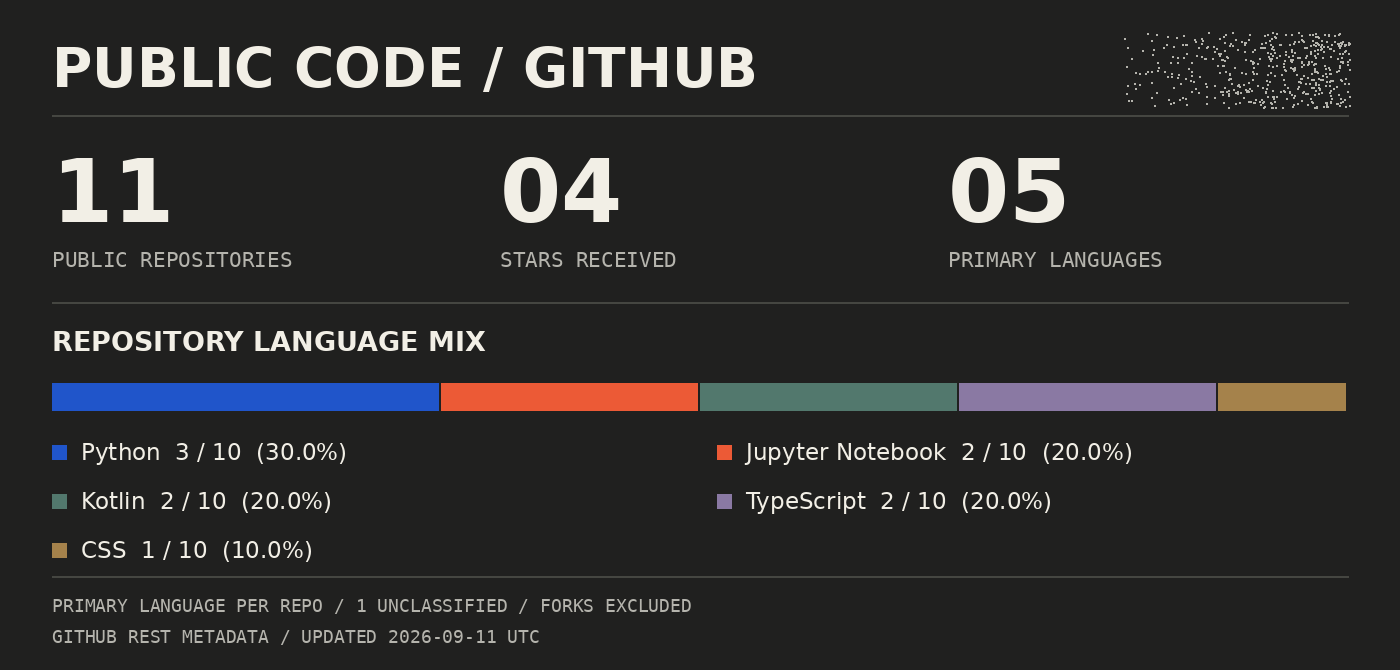
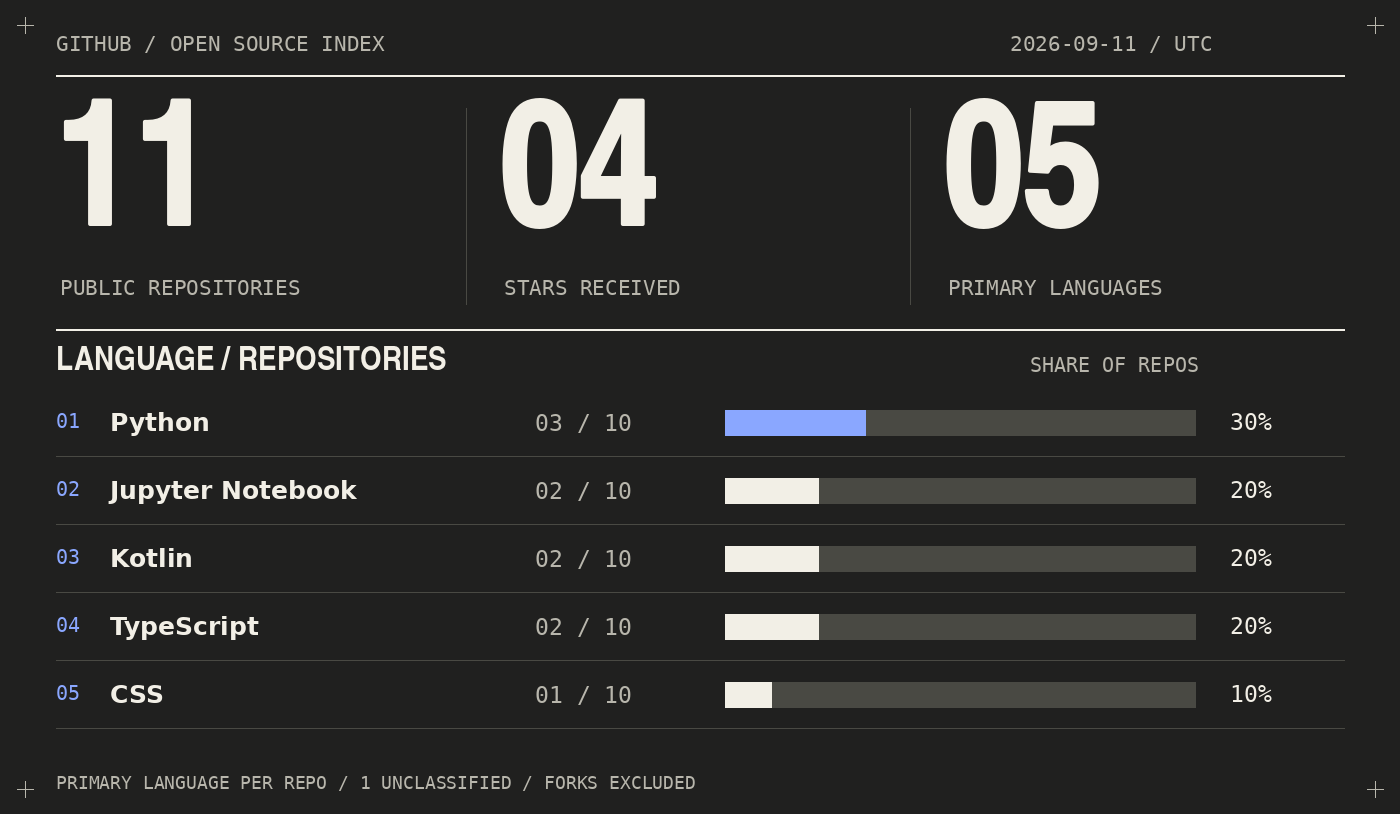
Polish GitHub stats to match the dither editorial identity
Add generated Code in Public artwork, condensed display numerals, restrained language bars, and aligned annotations. Preserve automatic refresh and install the display font in CI.

diff --git a/docs/visual-design.md b/docs/visual-design.md
@@ -49,3 +49,7 @@ Eight technology tiles use the official Devicon glyphs, rendered as PNGs on the 
 Two deterministic light/dark stats PNGs report public owned repository totals, stars received, and primary-language repository counts. They are drawn from the GitHub REST snapshot in `github-stats.json`, never image-generated. The weekly GitHub Actions workflow refreshes the snapshot, both cards, and accessible README table. Language proportions exclude unclassified repositories from the denominator and do not claim proficiency or coding time. Accountwide totals include all public owned repositories, whether or not featured on the profile.
 
 The complete inventory is now 42 PNGs: the original 24 editorial assets, eight link banners, eight technology tiles, and two stats cards. The approved name masthead remains unchanged. No SVG assets or animations are shipped.
+
+### Stats editorial polish
+
+The GitHub section now opens with an individually generated `github-cover.png` illustration: monumental CODE IN PUBLIC lettering, interlocking dither frames, cobalt orbit, and vermilion marker. Generation used the approved name masthead as its reference. The numerical panel uses Nimbus Sans Narrow Bold display numerals, monospaced annotations, registration marks, and a restrained cobalt/charcoal bar chart. Each bar reports the same denominator and a zero-to-100% track. The workflow installs `fonts-urw-base35` to preserve this typography on refresh. Both numerical themes remain deterministic and accessible through the accompanying table. Total PNG inventory: 43.

diff --git a/README.md b/README.md
@@ -380,6 +380,8 @@ Python · TypeScript · PyTorch · scikit-learn · PostgreSQL · FastAPI · Dock
 ## 07 / GitHub stats
 
 <!-- github-stats:start -->
+<img src="assets/github-cover.png" alt="Code in Public — dithered open frames with a cobalt orbit, in the profile's condensed editorial typography." width="100%">
+
 <picture>
   <source media="(prefers-color-scheme: dark)" srcset="assets/github-stats-dark.png">
   <img src="assets/github-stats-light.png" alt="GitHub public repository totals and primary-language distribution; exact figures follow." width="100%">
